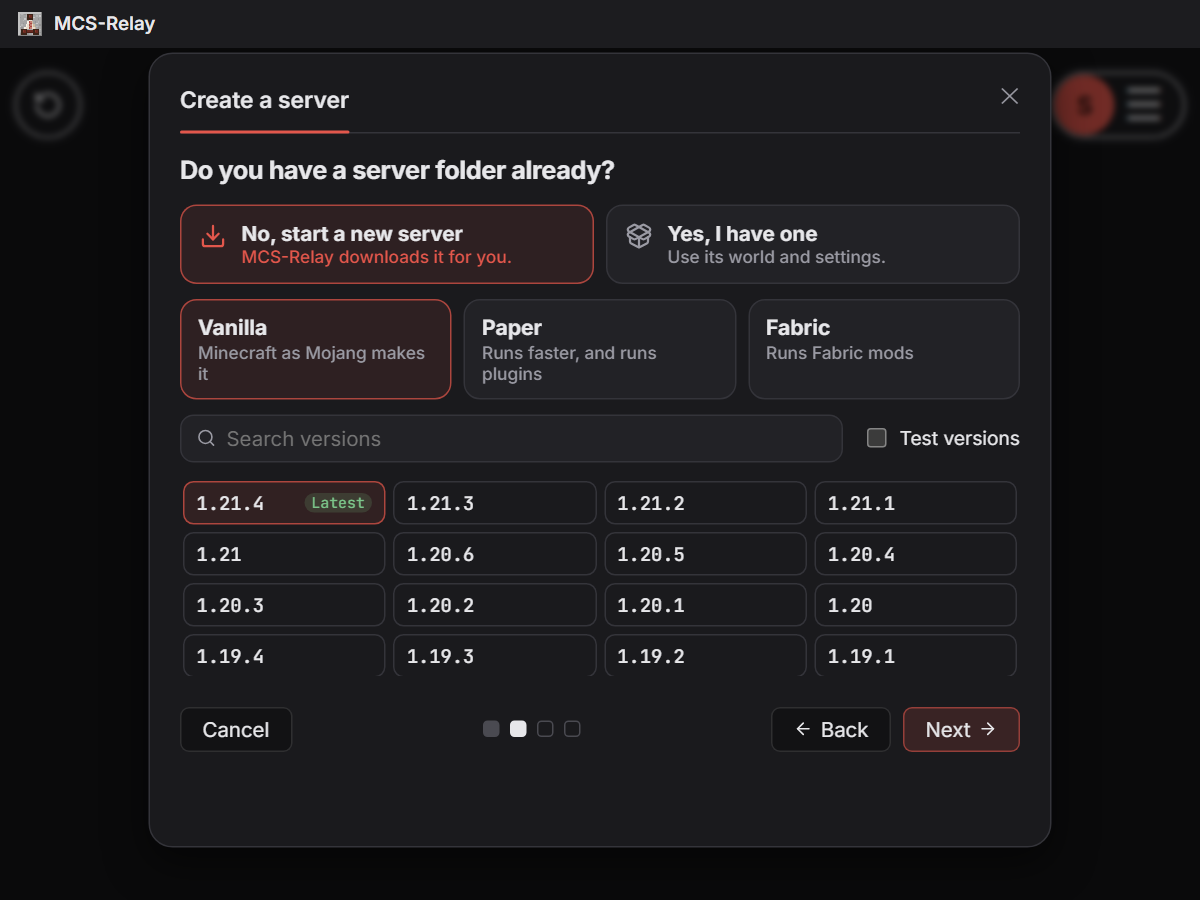
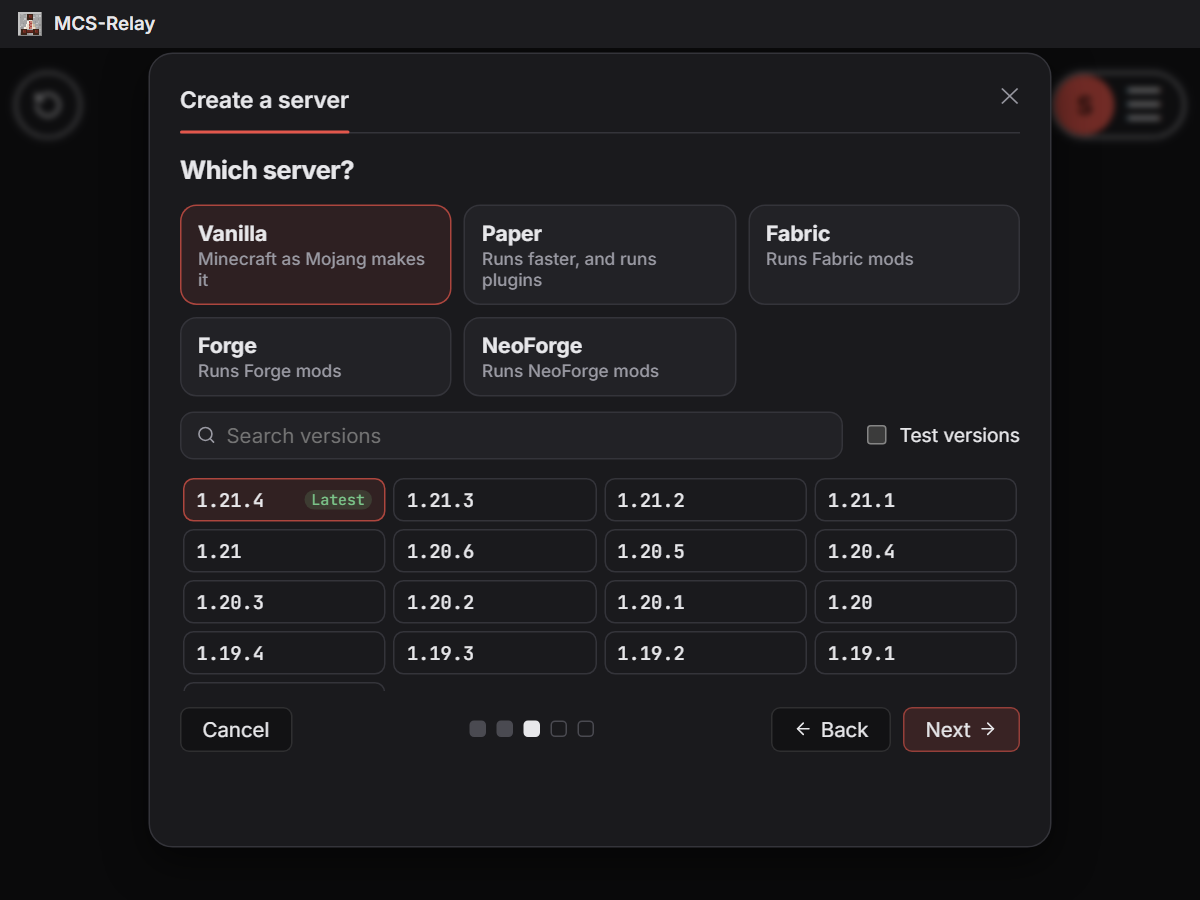
Website: modpacks, and Forge and NeoForge downloads
A Modpacks feature with a screenshot of the modpack step, the create-a-server
screenshot showing Forge and NeoForge, and the requirements and first step
mentioning modpacks.

diff --git a/website/index.html b/website/index.html
@@ -60,7 +60,7 @@
                     <div class="card">
                         <span class="step">1</span>
                         <h3>Create a server</h3>
-                        <p>Name it, and MCS-Relay downloads the server or uses a server folder you already have. Invite your friends; Google Drive emails them a link to join.</p>
+                        <p>Name it, and MCS-Relay downloads the server or a modpack, or uses a server folder you already have. Invite your friends; Google Drive emails them a link to join.</p>
                     </div>
                     <div class="card">
                         <span class="step">2</span>
@@ -88,21 +88,39 @@
                     <div class="feature-text">
                         <h3>A new server in a few steps</h3>
                         <p>
-                            Name it, pick vanilla, Paper or Fabric and a version, and MCS-Relay downloads it from the official
-                            source (Mojang, PaperMC, FabricMC) and checks it. Or use a server folder you already have, Forge and
-                            NeoForge included.
+                            Name it, pick vanilla, Paper, Fabric, Forge or NeoForge and a version, and MCS-Relay downloads it
+                            from the official source (Mojang, PaperMC, FabricMC, MinecraftForge, NeoForged) and checks it. Forge
+                            and NeoForge are installed for you. Or use a server folder you already have.
                         </p>
                         <p>
-                            If your PC's Java is too old for the server, MCS-Relay downloads the right one for it (Eclipse
-                            Temurin, from Adoptium). Nothing to install by hand.
+                            If the server needs a different Java than your PC has, MCS-Relay downloads the right one for it
+                            (Eclipse Temurin, from Adoptium). Nothing to install by hand.
                         </p>
                     </div>
                     <picture>
                             <source srcset="feature-create-dark.png" media="(prefers-color-scheme: dark)">
-                            <img class="screenshot" src="feature-create.png" alt="Creating a server: start a new one or use your own folder, then pick vanilla, Paper or Fabric and a version." width="1200" height="900" loading="lazy">
+                            <img class="screenshot" src="feature-create.png" alt="Creating a server, Which server step: Vanilla, Paper, Fabric, Forge and NeoForge, and a list of Minecraft versions." width="1200" height="900" loading="lazy">
                         </picture>
                 </div>
                 <div class="feature-row reverse">
+                    <div class="feature-text">
+                        <h3>Modpacks, ready to host</h3>
+                        <p>
+                            Start a server from a modpack: browse or search Modrinth's packs that run on a server, choose a
+                            version, and MCS-Relay installs the mod loader, the mods a server needs and the pack's settings.
+                        </p>
+                        <p>
+                            A pack that is only on CurseForge works too: download its Server Files there and give MCS-Relay the
+                            zip. Everyone in the server sees which pack and version it runs, with a link to get the same one
+                            for their launcher.
+                        </p>
+                    </div>
+                    <picture>
+                            <source srcset="feature-modpacks-dark.png" media="(prefers-color-scheme: dark)">
+                            <img class="screenshot" src="feature-modpacks.png" alt="Creating a server, Which modpack step: Modrinth packs with their loaders and versions, one chosen, and a way to use a CurseForge server pack zip." width="1200" height="900" loading="lazy">
+                        </picture>
+                </div>
+                <div class="feature-row">
                     <div class="feature-text">
                         <h3>Friends join from anywhere</h3>
                         <p>
@@ -120,7 +138,7 @@
                             <img class="screenshot" src="feature-playit.png" alt="Server settings, Hosting tab: playit.gg linked, with the address friends join with and a copy button." width="1200" height="900" loading="lazy">
                         </picture>
                 </div>
-                <div class="feature-row">
+                <div class="feature-row reverse">
                     <div class="feature-text">
                         <h3>Server settings in plain words</h3>
                         <p>
@@ -216,7 +234,7 @@
                     <ul class="plain">
                         <li>Windows 10 or 11 and a Google account.</li>
                         <li>Java, in the version your Minecraft server needs: MCS-Relay can download it for you.</li>
-                        <li>A Minecraft Java server: MCS-Relay downloads vanilla, Paper or Fabric, or uses a server folder you already have (Forge and NeoForge too). An existing world works too.</li>
+                        <li>A Minecraft Java server: MCS-Relay downloads vanilla, Paper, Fabric, Forge or NeoForge, sets up a modpack from Modrinth or a CurseForge server pack, or uses a server folder you already have. An existing world works too.</li>
                         <li>Optional: a free <a href="https://playit.gg">playit.gg</a> account, so friends can join from anywhere. You link it from the app.</li>
                     </ul>
                 </div>
